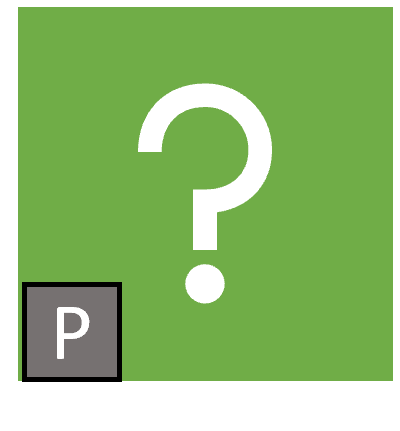
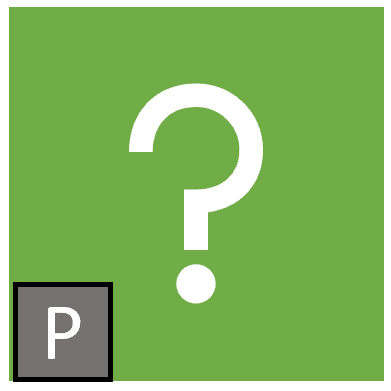
Made card images square and added some 1v1 funcs

Changed region(s): [[0.0, 0.0, 1.0, 0.9821], [0.3069, 0.1841, 0.7059, 0.798]]

diff --git a/scripts.js b/scripts.js
@@ -45,6 +45,14 @@ matchesFound = [];
 alignToGrid = false;
 easyMode = false;
 
+competitiveMode = false;
+isPlayerOneTurn = true;
+playerOneScore = 0;
+playerTwoScore = 0;
+p2Animals = [];
+
+const cardOrder = ['q','w','e','r','a','s','d','f','z','x','c','v','u','i','o','p','h','j','k','l','b','n','m',','];
+
 function init() {
     document.addEventListener("click", (evt) => {handleBackgroundClick();});
     document.addEventListener("keypress", (evt) => {checkNameEntry(evt);});
@@ -64,6 +72,16 @@ function pickAnimals() {
     }
 }
 
+function pickP2Animals() {
+    p2Animals = [];
+    while (p2Animals.length < numAnimals) {
+        selected = selectRandomFromArray(animals);
+        if (p2animals.indexOf(selected) == -1) {
+            p2animals.push(selected);
+        }
+    }
+}
+
 function startGame(gamemode) {
     numAnimals = easyMode ? 6 : 12;
     hideMenu();
@@ -71,12 +89,29 @@ function startGame(gamemode) {
     copiesPerAnimal = gamemode;
     clearPageElements();
     resetGameVariables();
+    updateMessage();
     addPageElements();
 
     initialiseGridSpaces();
     placeItems();
     updateProgressStepper();
     displayLeaderboardForMode();
+}
+
+function start1v1() {
+    numAnimals = 12;
+    pickAnimals();
+    hideMenu();
+    clearPageElements();
+    resetGameVariables();
+    competitiveMode = true;
+    updateMessage();
+
+    add1v1PageElements();
+}
+
+function reset1v1Game() {
+    // TODO
 }
 
 function resetGame() {
@@ -105,6 +140,11 @@ function resetGameVariables() {
     isNewBest = false;
     selectedCards = [];
     matchesFound = [];
+
+    isCompetitiveMode = false;
+    isPlayerOneTurn = true;
+    playerOneScore = 0;
+    playerTwoScore = 0;
 }
 
 function hideMenu() {
@@ -199,6 +239,40 @@ function addCardImgs() {
         img.onload = unhideElement(img, 800);
         document.getElementById("cards").appendChild(img);
     }
+}
+
+function add1v1PageElements() {
+    add1v1Cards();
+    add1v1Animals();
+}
+
+function add1v1Cards() {
+    count = 0;
+    for (let player=-1; player<2; player += 2) {
+        for (let column = 0; column<4; column++) {
+            for (let row = 0; row<3; row++) {
+                let img = document.createElement("img");
+                img.src = "assets/cards/card" + cardOrder[count] + ".png";
+                img.draggable = false;
+                img.classList.add("card");
+                img.classList.add("hidden");
+                img.classList.add(cardOrder[count]);
+                
+                img.onclick = function() {revealCard1v1(event, i )}; // TODO
+                img.onload = unhideElement(img, 800);
+
+                img.style.left = 2; //TODO
+                img.style.top = 2;
+
+                document.getElementById("cards").appendChild(img);
+                count++;
+            }
+        }
+    }
+}
+
+function add1v1Animals() {
+    
 }
 
 function clearPageElements() {
@@ -639,28 +713,99 @@ menuMessageOptions = [
     "Match up the animal pairs and test your memory!"
 ]
 
+openMessageOptions1v1 = [
+    "Player INFO, it's your turn!",
+    "It's Player INFO to turn a card first!",
+    "Whenever you're ready, Player INFO"
+]
+
+partialMessageOptions1v1 = [
+    "Player INFO, can you turn over the matching animal?",
+    "Let's see if Player INFO can find the match!",
+    "Time for Player INFO to turn over a card. Hope it's a match!"
+]
+
+failMessageOptions1v1 = [
+    "Oh no! That's not a match.",
+    "Oops! Those animals don't match!",
+    "Nope - not a match. Keep looking!"
+]
+
+matchMessageOptions1v1 = [
+    "Nice - that's a match! A point for Player INFO!",
+    "Good work Player INFO, those are the same!",
+    "You have an impressive memory, Player INFO.",
+    "One point to Player INFO for an impressive match!"
+]
+
 function updateMessage() {
     newMessage = "";
     switch (gameState) {
         case GameState.Open:
-            newMessage = selectRandomFromArray(openMessageOptions);
-            break;
-        case GameState.Partial:
-            newMessage = selectRandomFromArray(partialMessageOptions);
-            break;
-        case GameState.Fail:
-            newMessage = selectRandomFromArray(failMessageOptions);
-            break;
-        case GameState.Match:
-            newMessage = selectRandomFromArray(matchMessageOptions);
-            newMessage = newMessage.replace("REMAINING", (numAnimals-calculateSum(matchesFound)));
-            break;
-        case GameState.End:
-            if (isNewBest) {
-                newMessage = selectRandomFromArray(newBestMessageOptions);
+            if (competitiveMode) {
+                newMessage = selectRandomFromArray(openMessageOptions1v1);
+                newMessage = newMessage.replace("INFO", isPlayerOneTurn? "1 (left)" : "2 (right)");
             }
             else {
-                newMessage = selectRandomFromArray(gameEndMessageOptions);
+                newMessage = selectRandomFromArray(openMessageOptions);
+            }
+            break;
+        case GameState.Partial:
+            if (competitiveMode) {
+                newMessage = selectRandomFromArray(partialMessageOptions1v1);
+                newMessage = newMessage.replace("INFO", isPlayerOneTurn? "1 (left)" : "2 (right)");
+            }
+            else {
+                newMessage = selectRandomFromArray(partialMessageOptions);
+            }
+            break;
+        case GameState.Fail:
+            if (competitiveMode) {
+                newMessage = selectRandomFromArray(failMessageOptions1v1);
+            }
+            else {
+                newMessage = selectRandomFromArray(failMessageOptions);
+            }
+            break;
+        case GameState.Match:
+            if (competitiveMode) {
+                newMessage = selectRandomFromArray(matchMessageOptions1v1);
+                newMessage = newMessage.replace("INFO", isPlayerOneTurn? "1" : "2");
+            }
+            else {
+                newMessage = selectRandomFromArray(matchMessageOptions);
+                newMessage = newMessage.replace("REMAINING", (numAnimals-calculateSum(matchesFound)));
+            }
+            break;
+        case GameState.End:
+            if (competitiveMode) {
+                if (playerOneScore == playerTwoScore) {
+                    newMessage = "It's a tie! Play again to see who will be victorious!";
+                }
+                else if (playerTwoScore > playerOneScore) {
+                    if (playerTwoScore - playerOneScore < 3) {
+                        newMessage = "It was close, but Player 2 pulled the win!";
+                    }
+                    else {
+                        newMessage = "A decisive victory for Player 2. Fancy a rematch?";
+                    }
+                }
+                else {
+                    if (playerOneScore - playerTwoScore < 3) {
+                        newMessage = "A close game, but Player 1 snatched the win!";
+                    }
+                    else {
+                        newMessage = "Victory for Player 1! Fancy a rematch?"
+                    }
+                }
+            }
+            else {
+                if (isNewBest) {
+                    newMessage = selectRandomFromArray(newBestMessageOptions);
+                }
+                else {
+                    newMessage = selectRandomFromArray(gameEndMessageOptions);
+                }
             }
             break;
         case GameState.Menu:

diff --git a/page.html b/page.html
@@ -40,6 +40,7 @@
         
         <div class="startbuttons">
             <button type="button" class="button start" id="start2" onclick="startGame(2)">Play Animal Match (Original)</button>
+            <button type="button" class="button start" id="start1v1" onclick="start1v1()">Play Competitive (2 player)</button>
 
             <button type="button" class="button start" id="start3" onclick="startGame(3)">Play 3-match</button>
             <button type="button" class="button start" id="start4" onclick="startGame(4)">Play 4-match</button>

diff --git a/styles.css b/styles.css
@@ -138,7 +138,7 @@ img {
 }
 
 #start2 {
-    margin-bottom: 30px;
+    margin-bottom: 10px;
     background-color: #c14444;
 }
 
@@ -148,6 +148,19 @@ img {
 
 #start2:active {
     background-color: #9e2f2f;
+}
+
+#start1v1 {
+    margin-bottom: 20px;
+    background-color: #3e6dd3;
+}
+
+#start1v1:hover {
+    background-color: #3156a7;
+}
+
+#start1v1:active {
+    background-color: #3156a7;
 }
 
 #easymodelabel {
